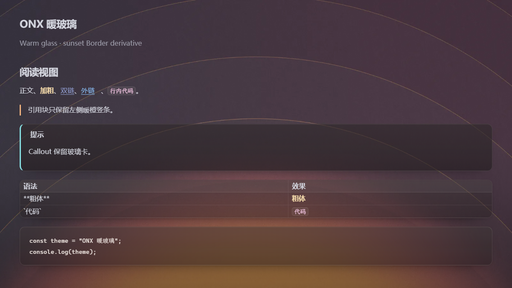
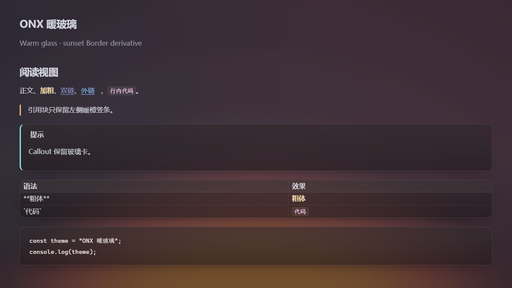
v1.0.13: choose A — one global frosted glass window

diff --git a/theme.css b/theme.css
@@ -9175,7 +9175,7 @@ body:not(.is-mobile):not(.mod-macos):not(.mod-windows):not(.mod-linux) .app-cont
    ------------------------------------------------------------------------- */
 body {
   --cb-radius: 12px;                              /* 卡片圆角，与标题竖条 8px 同族 */
-  --cb-fill: rgba(24, 18, 20, 0.52);              /* 内容卡统一底色：足够实，避免底部亮金透出 */
+  --cb-fill: rgba(24, 18, 20, 0.46);              /* 内容卡统一底色：足够实，避免底部亮金透出 */
   --cb-hi: rgba(255, 244, 236, 0.075);            /* 顶部白色微光 */
   --cb-lo: rgba(255, 244, 236, 0.015);            /* 底部回落 */
   --cb-line: rgba(255, 244, 236, 0.10);           /* 1px 描边 */
@@ -10817,4 +10817,14 @@ body:not(.is-mobile) .workspace-split.mod-right-split .workspace-leaf-content .v
   background: transparent !important;
   background-color: transparent !important;
   background-image: none !important;
+}
+
+/* ===========================================================================
+   31. 全局磨砂：整个窗口是一块玻璃，所有面板共享同一层背景
+   =========================================================================== */
+
+body:not(.is-mobile) .app-container {
+  background: rgba(18, 12, 14, 0.18) !important;
+  backdrop-filter: blur(20px) saturate(1.06);
+  -webkit-backdrop-filter: blur(20px) saturate(1.06);
 }
